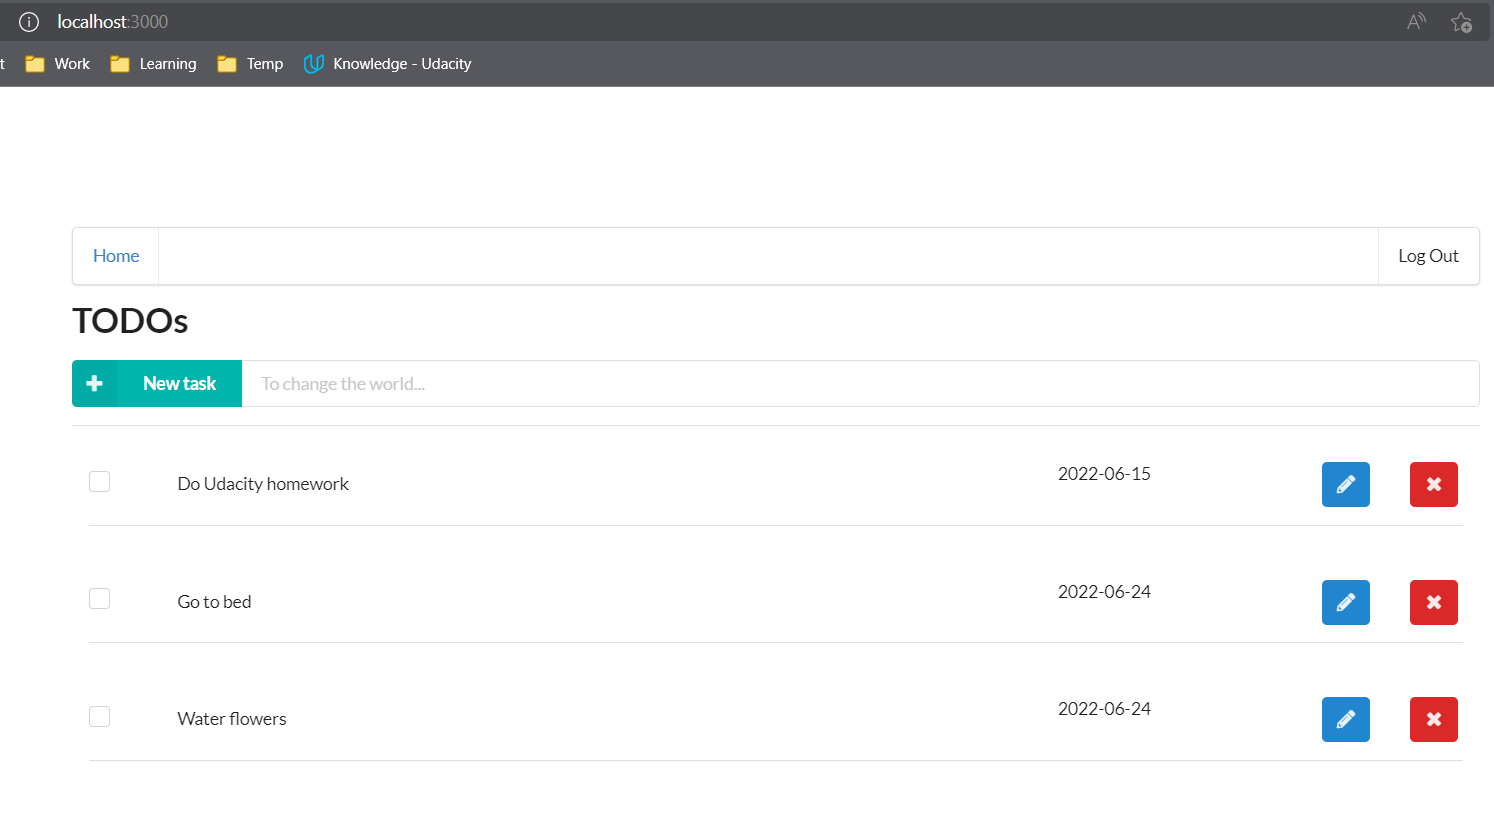
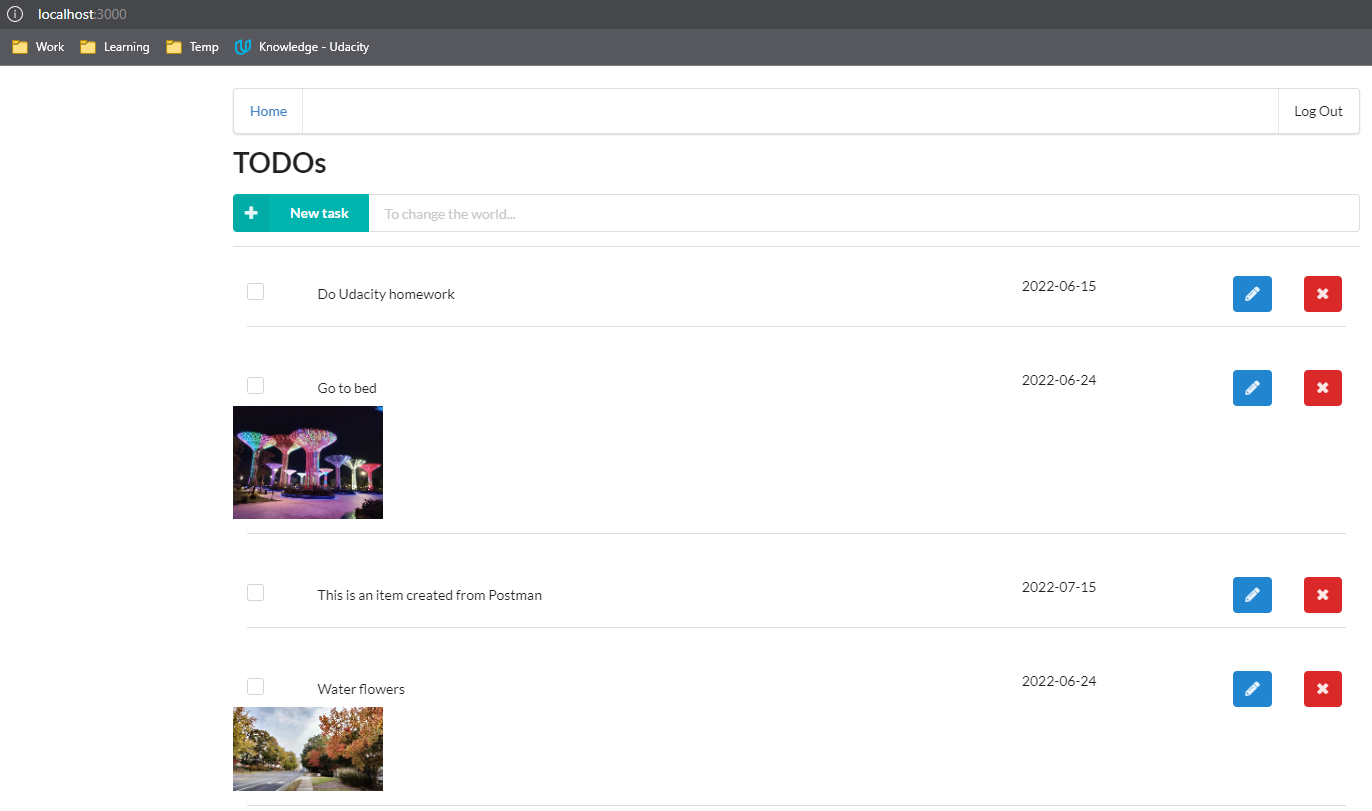
Update backend and images

diff --git a/course-04/project/c4-final-project-starter-code/backend/src/helpers/fileAccess.ts b/course-04/project/c4-final-project-starter-code/backend/src/helpers/fileAccess.ts
@@ -17,7 +17,7 @@ export class FileAccess {
     logger.info(`Creating an upload url for todo ${todoId}.`)
 
     const signedUrl: string = await this.s3.getSignedUrlPromise('putObject', {
-      BucketName: this.s3BucketName,
+      Bucket: this.s3BucketName,
       Key: todoId,
       Expires: parseInt(this.s3SignedUrlExpiration)
     })
